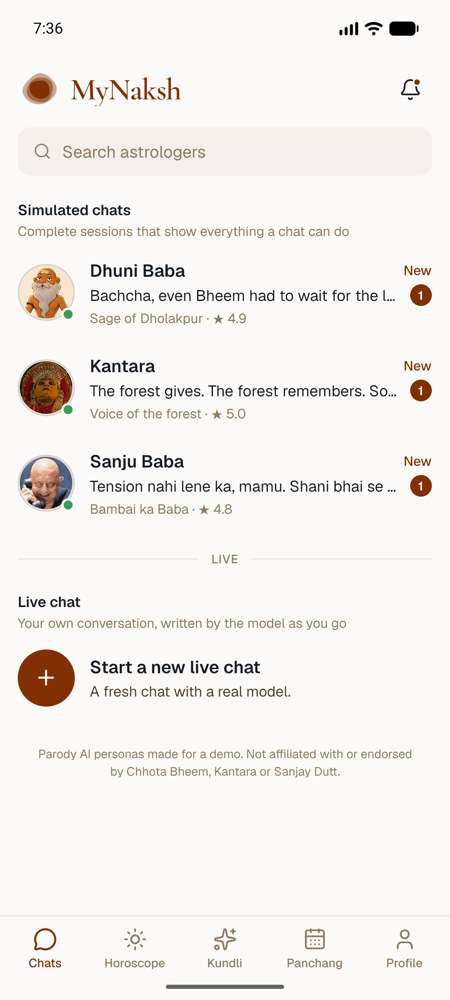
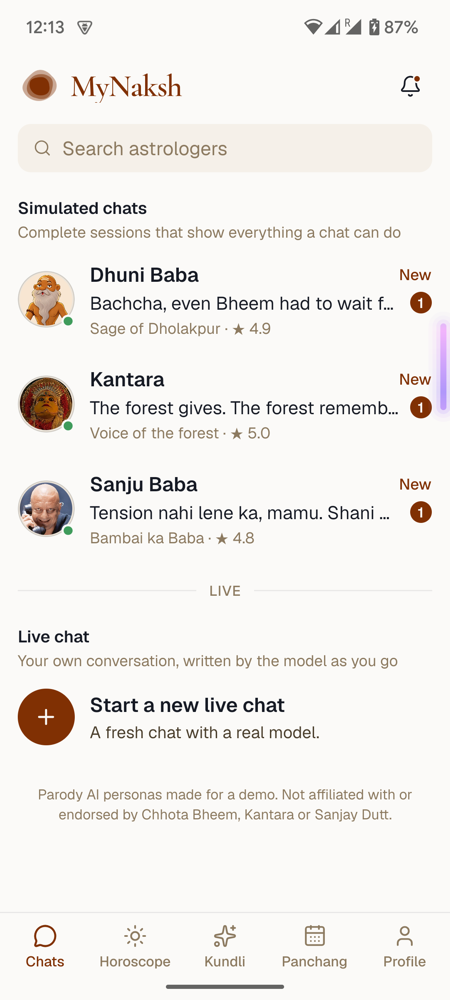
Retake README screenshots on a Pixel 6 release build
Also ease the birth-details border colour on web.

diff --git a/src/components/kundli/BirthWhen.tsx b/src/components/kundli/BirthWhen.tsx
@@ -1,5 +1,5 @@
 import { useEffect, useRef, useState } from 'react';
-import { Animated, Easing, Platform, StyleSheet, Text, View } from 'react-native';
+import { Animated, Easing, Platform, StyleSheet, Text, View, type ViewStyle } from 'react-native';
 
 import { colors } from '../../theme/colors';
 import { fonts } from '../../theme/typography';
@@ -93,6 +93,13 @@ const styles = StyleSheet.create({
     borderColor: colors.line,
     backgroundColor: colors.background,
     overflow: 'hidden',
+    ...(Platform.OS === 'web'
+      ? ({
+          transitionProperty: 'border-color',
+          transitionDuration: '160ms',
+          transitionTimingFunction: 'ease',
+        } as ViewStyle)
+      : null),
   },
   boxOn: {
     borderColor: colors.brandLine,

diff --git a/README.md b/README.md
@@ -6,7 +6,7 @@ The AI conversation experience from the MyNaksh frontend assessment, built with 
 
 ## Screenshots
 
-Android emulator, native build.
+Pixel 6, native release build.
 
 | Chats | Recommendations | Long-press | Feedback and reply | Failed and retry |
 | --- | --- | --- | --- | --- |
